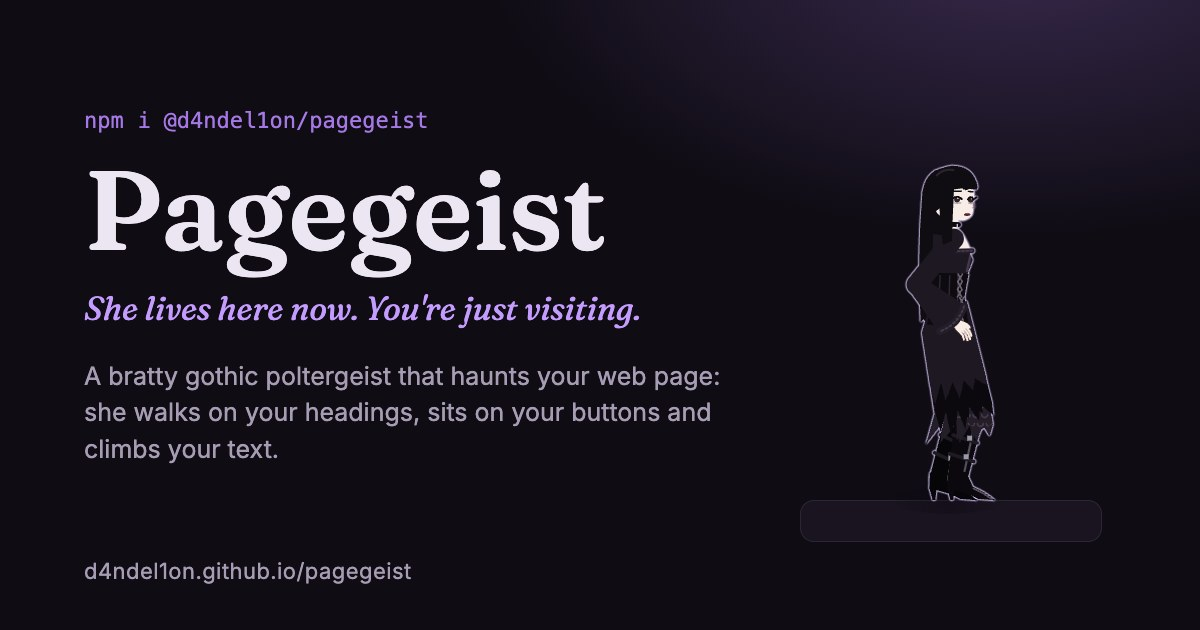
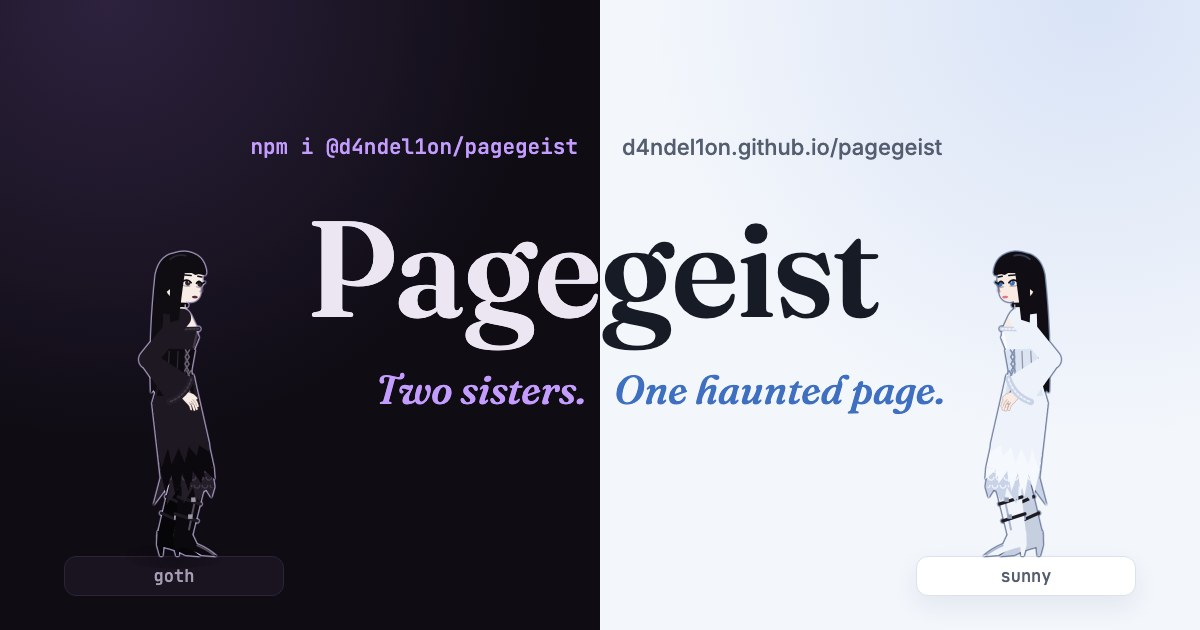
chore(playground): og-image with both sisters (#10)
Goth on a dark half, sunny on a light half, both rendered live from dist/
by the new scripts/og-image.mjs (seeded, fake clock, Playwright). Link
preview meta tags and the JSON-LD description now mention both sisters.

diff --git a/playground/index.html b/playground/index.html
@@ -6,24 +6,24 @@
     <title>Pagegeist – she haunts this page</title>
     <meta
       name="description"
-      content="A bratty gothic poltergeist that haunts your web page: she walks on your headings, sits on your buttons and climbs your text. Zero dependencies, React adapter included."
+      content="A bratty gothic poltergeist – or her eager little sister in white – that haunts your web page: she walks on your headings, sits on your buttons and climbs your text. Zero dependencies, React adapter included."
     />
     <link rel="canonical" href="https://d4ndel1on.github.io/pagegeist/" />
 
     <!-- Link previews (WhatsApp, Slack, iMessage, social): image URLs must be absolute. -->
     <meta property="og:type" content="website" />
     <meta property="og:site_name" content="Pagegeist" />
-    <meta property="og:title" content="Pagegeist – she lives here now. You're just visiting." />
+    <meta property="og:title" content="Pagegeist – two sisters, one haunted page" />
     <meta
       property="og:description"
-      content="A bratty gothic poltergeist that haunts your web page. Try the live demo – poke her if you dare."
+      content="A bratty gothic poltergeist or her eager little sister in bleached white: pick one to haunt your web page. Try the live demo – poke them if you dare."
     />
     <meta property="og:url" content="https://d4ndel1on.github.io/pagegeist/" />
     <meta property="og:image" content="https://d4ndel1on.github.io/pagegeist/og-image.jpg" />
     <meta property="og:image:type" content="image/jpeg" />
     <meta property="og:image:width" content="1200" />
     <meta property="og:image:height" content="630" />
-    <meta property="og:image:alt" content="Pagegeist, a pale gothic girl in black, standing on a ledge next to the title." />
+    <meta property="og:image:alt" content="The two Pagegeist sisters facing each other across the title: goth in black on a dark half, sunny in ghostly white on a light half." />
     <meta name="twitter:card" content="summary_large_image" />
 
     <link rel="icon" href="./favicon.svg" type="image/svg+xml" />
@@ -38,7 +38,7 @@
         "@type": "SoftwareSourceCode",
         "name": "pagegeist",
         "alternateName": "@d4ndel1on/pagegeist",
-        "description": "Animated mascot overlay for web pages: a bratty gothic poltergeist that walks on your headings, sits on your buttons and climbs your text. Zero dependencies, React adapter included (SSR-safe, Next.js ready).",
+        "description": "Animated mascot overlay for web pages: a bratty gothic poltergeist (or her eager little sister in white) that walks on your headings, sits on your buttons and climbs your text. Zero dependencies, React adapter included (SSR-safe, Next.js ready).",
         "url": "https://d4ndel1on.github.io/pagegeist/",
         "codeRepository": "https://github.com/d4ndel1on/pagegeist",
         "programmingLanguage": ["TypeScript", "JavaScript"],

diff --git a/CONTRIBUTING.md b/CONTRIBUTING.md
@@ -117,7 +117,8 @@ src/
     types.ts          shared internal types (states, vectors)
     render/           GothRenderer (procedural character), walk cycle, effects, render queue
 playground/           Vite + React demo app (deployed to GitHub Pages)
-scripts/              build helpers (check-dist.mjs: post-build dist sanity checks; check-snippets.mjs: docs snippets)
+scripts/              build helpers (check-dist.mjs: post-build dist sanity checks; check-snippets.mjs: docs snippets;
+                      og-image.mjs: renders the playground's link preview image from dist/)
 examples/             type-checked snippets embedded in the docs
   starters/           complete Next.js / React / Vite apps: StackBlitz demos and CI integration tests
 e2e/                  Playwright browser tests (smoke tests of dist/, starter apps)
@@ -160,6 +161,10 @@ From then on every release goes through the workflow.
 `.github/workflows/pages.yml` builds the playground (`npm run build:playground`) and deploys
 `dist-playground/` on every push to `main` (or manually via *Run workflow*). Pages must be
 enabled once under repository *Settings → Pages → Source: GitHub Actions*.
+
+The link preview image `playground/public/og-image.jpg` is rendered by `node scripts/og-image.mjs`
+(after `npm run build`; uses Playwright's Chromium and Google Fonts). Re-run it when the
+characters' look changes.
 
 ## License
 
